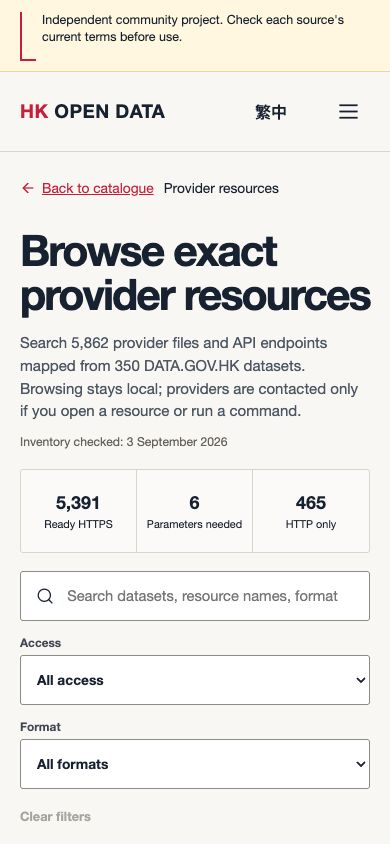
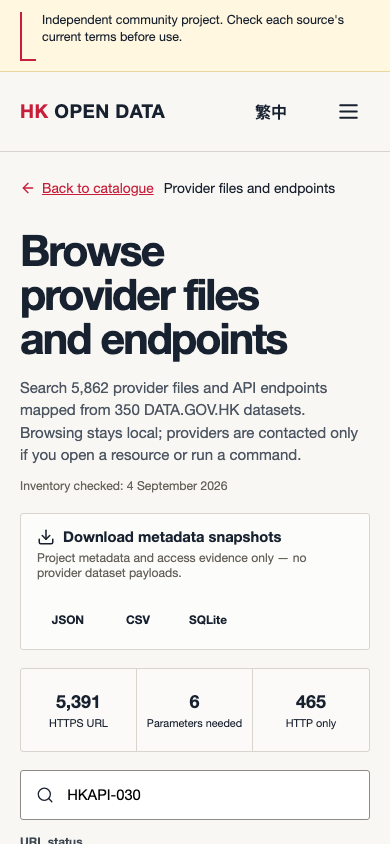
docs: refresh provider browser previews

diff --git a/docs/design/FIDELITY_LEDGER.md b/docs/design/FIDELITY_LEDGER.md
@@ -1,12 +1,13 @@
 # Civic Signal fidelity ledger
 
-Verified on 2026-08-31 against the three pinned concepts in
-[`docs/design/concepts`](concepts/) using the in-app browser and committed catalogue data.
+Initially verified on 2026-08-31 against the three pinned concepts in
+[`docs/design/concepts`](concepts/) using the in-app browser and committed catalogue data. The
+provider-resource views were recaptured on 2026-09-04 after the evidence and download improvements.
 
 | Check | Concept evidence | Browser-render evidence | Result |
 | --- | --- | --- | --- |
 | First-viewport hierarchy | Notice, quiet header, headline, search, categories, filters/results, toolkit preview | [`catalogue-home.png`](../images/catalogue-home.png) at 1536 × 1024 | Matched; the toolkit remains visible at the bottom edge. |
-| Provider-resource browser | Summary and evidence date, access counts, local filters, exact provider URLs and usage actions | [`provider-resources.png`](../images/provider-resources.png) at 1536 × 1024 and [`provider-resources-mobile.png`](../images/provider-resources-mobile.png) at 390 × 844 | Matched; 20 rows are progressively rendered and long URLs wrap without horizontal overflow. |
+| Provider-resource browser | Summary and evidence date, access counts, metadata downloads, local filters, exact provider URLs and usage actions | [`provider-resources.png`](../images/provider-resources.png) at 1536 × 1024 and [`provider-resources-mobile.png`](../images/provider-resources-mobile.png) at 390 × 844 | Matched; the captured shared view isolates one verified HKAPI-030 direct file and long URLs wrap without horizontal overflow. |
 | Palette and container model | Warm paper, white controls, dark ink, restrained red, thin ledger rules, warning band | Homepage and [`resource-detail.png`](../images/resource-detail.png) at 1536 × 1024 | Matched without gradients, glow, government marks or a card grid. |
 | Typography and controls | Compact editorial sans, large balanced heading, deliberate labels and buttons | All three rendered screenshots | Matched using local system fonts; interactive targets remain at least 44px. |
 | Resource anatomy | Provider, type, protocol, authentication, terms review, date and detail action | Homepage rows and resource detail metadata ledger | Matched with validated record values replacing mockup examples. |
@@ -18,7 +19,7 @@ Verified on 2026-08-31 against the three pinned concepts in
 ## Material fixes made during review
 
 - Opened the native filter disclosure on desktop while leaving it collapsed on mobile.
-- Replaced the first 521-row render with two initial rows plus a working progressive-disclosure
+- Replaced the first 521-row render with ten initial rows plus a working progressive-disclosure
   control so the toolkit remains discoverable.
 - Darkened the evidence-state label to pass WCAG AA contrast.
 - Added the concept's category icon treatment.
@@ -31,8 +32,8 @@ Verified on 2026-08-31 against the three pinned concepts in
 - Resource names, dates, states and counts always come from the validated catalogue; mockup values
   are not copied.
 - Results use deterministic source-ID order rather than the mockup's unsupported relevance sort.
-- Columns and CSV-export controls shown by the generated concept are omitted because they are not
-  part of the approved product contract.
+- Result rows use a fixed, accessible metadata layout instead of user-configurable columns. The
+  current filtered catalogue can be downloaded as JSON or spreadsheet-safe CSV.
 - The accessible 44px filter targets make the desktop filter rail taller than the visual mockup;
   the hierarchy and toolkit preview are preserved without shrinking controls.
 
